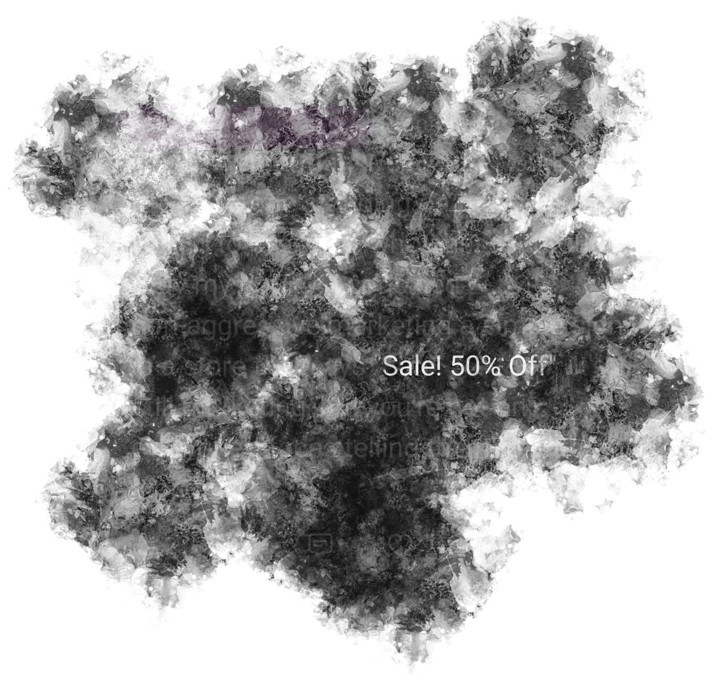
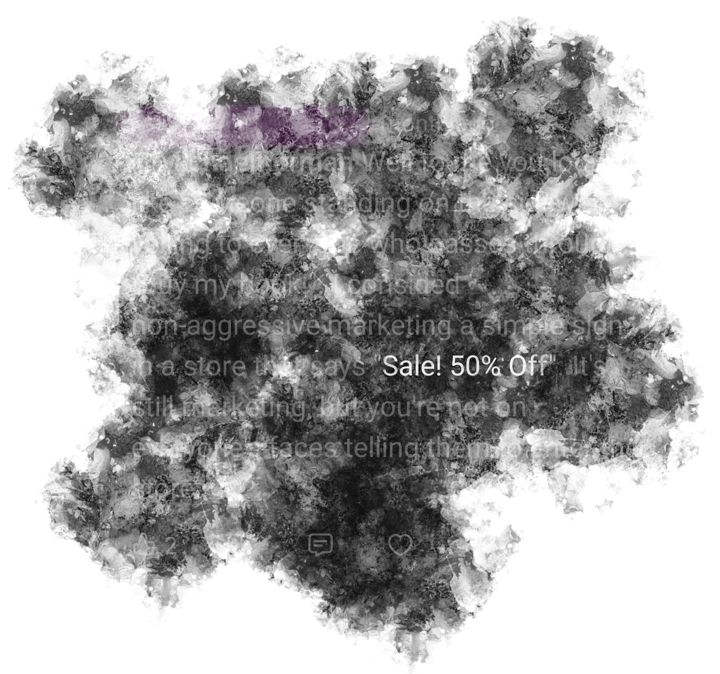
Change some highlights in "aggressive marketing" scene

diff --git a/door/index.html b/door/index.html
@@ -74,8 +74,8 @@
             <img src="assets/aggressive-1.webp" alt="Comment: honestly idk thats how confusing it is" class="relic-img comment-left">
             <img src="assets/aggressive-2.webp" alt="Comment: can't tell if this is a bit or your a cult" class="relic-img comment-right">
             <img src="assets/aggressive-3.webp" alt="Comment: Why would I buy it?" class="relic-img comment-left">
-            <img src="assets/aggressive-4.webp" alt="Comment: Why would I buy it?" class="relic-img comment-right">
-            <img src="assets/aggressive-5.webp" alt="Comment: Why would I buy it?" class="relic-img comment-center">
+            <img src="assets/aggressive-5.webp" alt="Comment: Why would I buy it?" class="relic-img comment-right">
+            <img src="assets/aggressive-4.webp" alt="Comment: Why would I buy it?" class="relic-img comment-center">
         </section>
 
 

diff --git a/door/style.css b/door/style.css
@@ -130,19 +130,19 @@ button {
 /* Positional alignments */
 .comment-left {
   align-self: flex-start;
-  max-width: 60%;
-  margin-left: 5%;
+  max-width: 80%;
+  margin-left: 0%;
 }
 
 .comment-right {
   align-self: flex-end;
-  max-width: 60%;
-  margin-right: 5%;
+  max-width: 80%;
+  margin-right: 0%;
 }
 
 .comment-center {
   align-self: center;
-  max-width: 80%;
+  max-width: 100%;
 }
 
 .video-frame {
